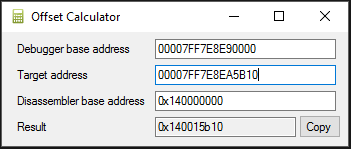
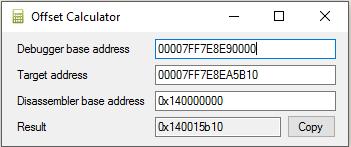
Fixed slight misaligned button

diff --git a/OffsetCalc/OffsetCalc.h b/OffsetCalc/OffsetCalc.h
@@ -182,14 +182,14 @@ namespace OffsetCalc {
 			this->TxtResult->Location = System::Drawing::Point(153, 85);
 			this->TxtResult->Name = L"TxtResult";
 			this->TxtResult->ReadOnly = true;
-			this->TxtResult->Size = System::Drawing::Size(141, 20);
+			this->TxtResult->Size = System::Drawing::Size(126, 20);
 			this->TxtResult->TabIndex = 8;
 			// 
 			// CopyButton
 			// 
-			this->CopyButton->Location = System::Drawing::Point(297, 83);
+			this->CopyButton->Location = System::Drawing::Point(285, 83);
 			this->CopyButton->Name = L"CopyButton";
-			this->CopyButton->Size = System::Drawing::Size(42, 23);
+			this->CopyButton->Size = System::Drawing::Size(49, 23);
 			this->CopyButton->TabIndex = 9;
 			this->CopyButton->Text = L"Copy";
 			this->CopyButton->UseVisualStyleBackColor = true;
